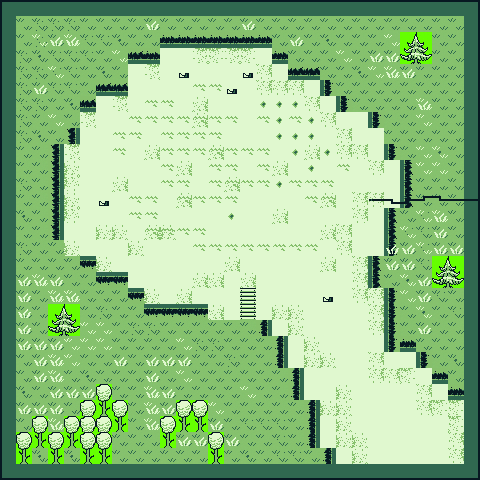
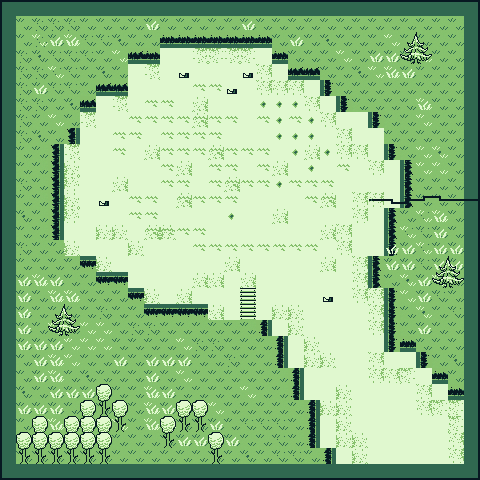
updates and fixes

diff --git a/tiled/PondMapSprites.tsx b/tiled/PondMapSprites.tsx
@@ -64,10 +64,10 @@
  <tile id="20">
   <image source="sprites/bg grass light.png" width="16" height="16"/>
  </tile>
- <tile id="21">
-  <image source="sprites/Tree 16x32.png" width="16" height="32"/>
+ <tile id="23">
+  <image source="sprites/Tree1.png" width="32" height="32"/>
  </tile>
- <tile id="22">
-  <image source="sprites/Tree2 32x32.png" width="32" height="32"/>
+ <tile id="24">
+  <image source="sprites/Tree2.png" width="32" height="32"/>
  </tile>
 </tileset>
